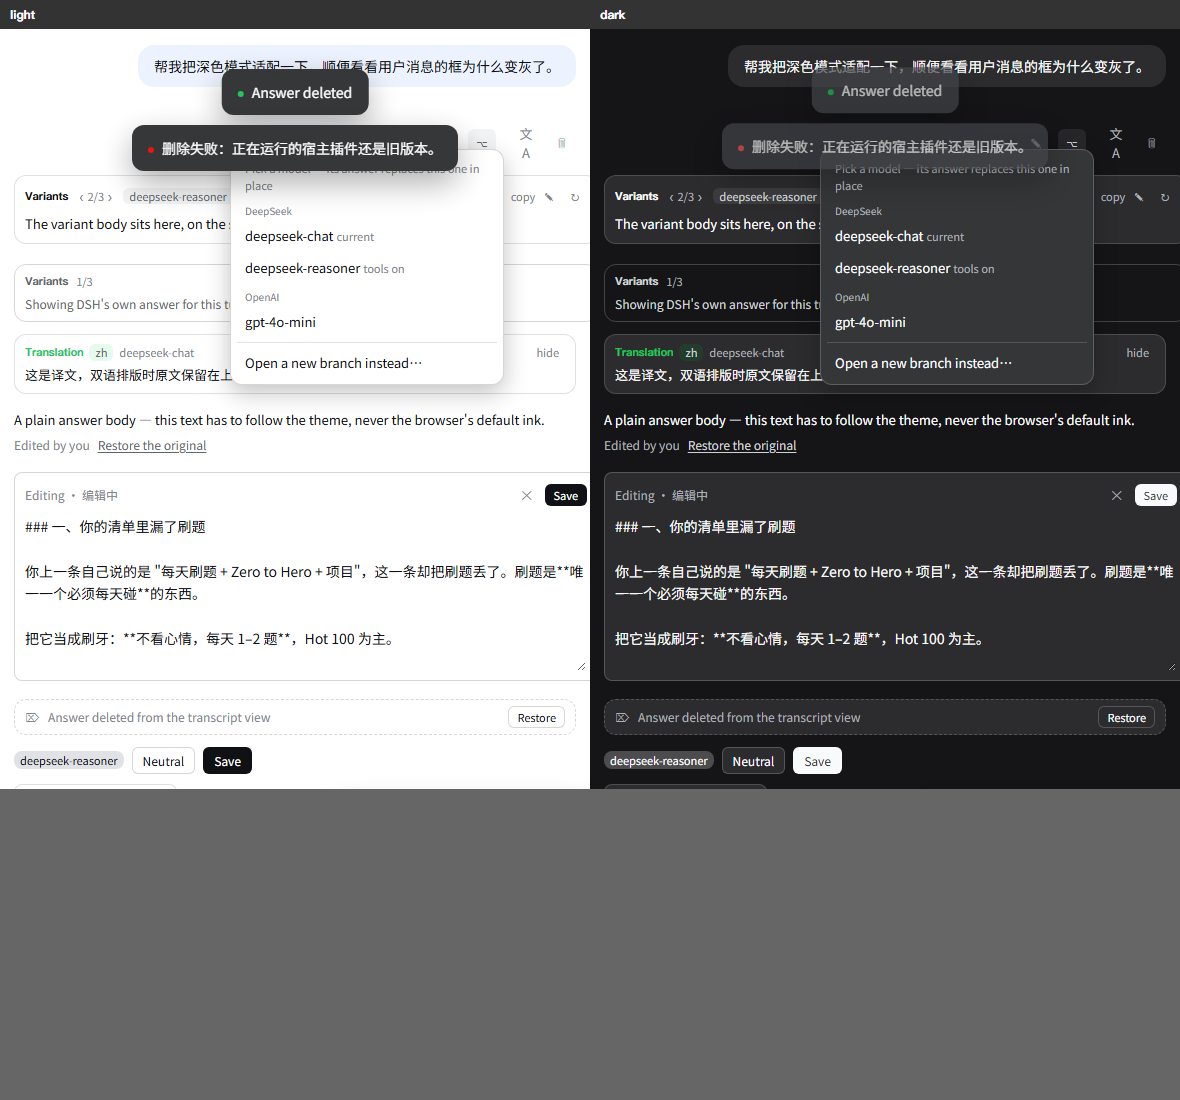
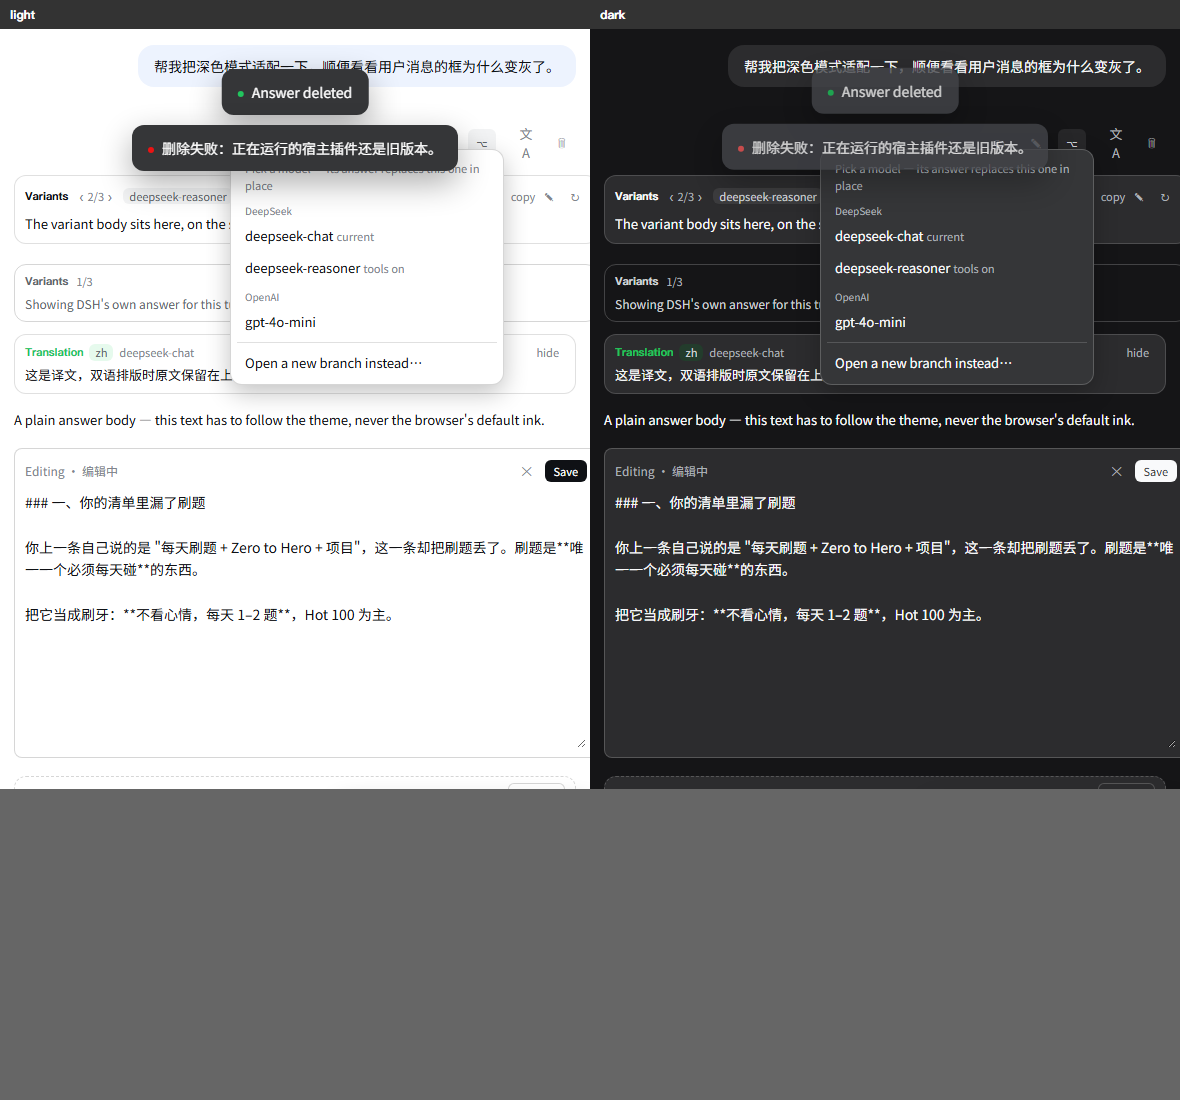
fix: render a saved edit, drop the restore row, stop the editor jitter
- MarkdownText is a memo() object, so the typeof-function guard sent every answer
  down the plain-text fallback: accept a component of either shape (same for the
  shimmer line), which is what 'saved but not rendered' was
- no line is drawn under an overwritten answer any more; answer-restore stays as
  the API-level way back
- the edit field keeps a fixed height and scrolls internally instead of collapsing
  to height:auto on every keystroke and dragging the page back to the top

diff --git a/lib/client.js b/lib/client.js
@@ -1390,7 +1390,13 @@ function markdownRenderer() {
   markdownBridge = null;
   try {
     const primitives = typeof require === 'function' ? require('@deepseek-ai/dsh-client-ui-primitives') : null;
-    if (primitives && typeof primitives.MarkdownText === 'function') markdownBridge = primitives.MarkdownText;
+    // `MarkdownText` (like most of the shell's components) is a `memo()` object,
+    // not a bare function — a `typeof === 'function'` test would silently send
+    // every answer down the plain-text fallback.
+    const candidate = primitives ? primitives.MarkdownText : null;
+    if (typeof candidate === 'function' || (candidate !== null && typeof candidate === 'object')) {
+      markdownBridge = candidate;
+    }
   } catch (e) {
     markdownBridge = null;
   }
@@ -1436,10 +1442,13 @@ function AnswerBody(props) {
  * being generated looks like the app is generating, not like a plugin widget.
  * Falls back to a plain muted line when the primitives package is missing.
  */
+function isComponent(value) {
+  return typeof value === 'function' || (value !== null && typeof value === 'object');
+}
+
 function WaitLine(props) {
-  const Shimmer = clientPrimitives() && typeof clientPrimitives().TextShimmer === 'function'
-    ? clientPrimitives().TextShimmer
-    : null;
+  const api = clientPrimitives();
+  const Shimmer = api !== null && isComponent(api.TextShimmer) ? api.TextShimmer : null;
   if (Shimmer !== null) return h(Shimmer, { active: true }, props.label);
   return h('span', { className: 'mtt-wait-text' }, props.label);
 }
@@ -1504,16 +1513,6 @@ function AnswerEditBox(props) {
   const [busy, setBusy] = React.useState(false);
   const [error, setError] = React.useState(null);
   const [toastNode, showToast] = useToast();
-  const area = React.useRef(null);
-
-  // Long answers must not scroll inside a four-line box: the field grows with
-  // its content, and keeps the manual resize handle for the reader who wants it.
-  React.useEffect(function () {
-    const node = area.current;
-    if (!node) return;
-    node.style.height = 'auto';
-    node.style.height = String(node.scrollHeight) + 'px';
-  }, [text]);
 
   function close() {
     store.setEdit(props.sessionId, props.turn, null);
@@ -1549,7 +1548,6 @@ function AnswerEditBox(props) {
           onClick: save,
         }, t('save')))),
     h('textarea', {
-      ref: area,
       className: 'mtt-answer-edit-input',
       placeholder: t('answerEditHint'),
       value: text,
@@ -1668,37 +1666,9 @@ function AnswerCard(props) {
       : live !== null && streamingText.length === 0
         ? h('div', { className: 'mtt-answer-wait' }, h(WaitLine, { label: t('generating') }))
         : h('div', { className: 'mtt-answer-body' },
-          h(AnswerBody, { text: shownText, streaming: live !== null }),
-          override !== null && active === null && live === null
-            ? h(OverrideNote, { sessionId: sessionId, turn: turn })
-            : null));
+          h(AnswerBody, { text: shownText, streaming: live !== null })));
 }
 
-/**
- * "This answer is your text now, not the model's." One muted line with the way
- * back, so overwriting the logged answer stays reversible without putting a
- * second entry in the ring — the whole point of overwriting instead of adding.
- */
-function OverrideNote(props) {
-  const [busy, setBusy] = React.useState(false);
-  const [toastNode, showToast] = useToast();
-  async function restore() {
-    setBusy(true);
-    try {
-      await answerMutate({ action: 'answer-restore', sessionId: props.sessionId, turn: props.turn });
-      showToast(t('overrideRestored'));
-    } catch (e) {
-      showToast(failureText(e), 'error');
-    }
-    setBusy(false);
-  }
-  return h('div', { className: 'mtt-answer-note' },
-    h('span', {}, t('answerOverridden')),
-    h('button', {
-      type: 'button', className: 'mtt-link', disabled: busy, onClick: restore,
-    }, t('restoreOriginal')),
-    toastNode);
-}
 /* --------------------------------------------------------------- components -- */
 
 /**
@@ -2478,12 +2448,8 @@ const CSS = [
   '.mtt-answer-edit-head{display:flex;align-items:center;justify-content:space-between;gap:8px;margin-bottom:6px}',
   '.mtt-answer-edit-label{font-size:12px;color:var(--mtt-fg-3)}',
   '.mtt-answer-edit-tools{display:flex;align-items:center;gap:4px}',
-  '.mtt-answer-edit-input{display:block;width:100%;min-height:96px;resize:vertical;border:0;background:transparent;color:var(--mtt-fg);font-family:inherit;font-size:var(--dsh-content-font-size,14px);line-height:1.6;padding:0;outline:none;overflow:hidden}',
+  '.mtt-answer-edit-input{display:block;width:100%;height:clamp(140px,34vh,360px);resize:vertical;border:0;background:transparent;color:var(--mtt-fg);font-family:inherit;font-size:var(--dsh-content-font-size,14px);line-height:1.6;padding:0;outline:none;overflow:auto;overscroll-behavior:contain}',
   '.mtt-answer-edit-input::placeholder{color:var(--mtt-fg-3)}',
-  '.mtt-answer-note{display:flex;align-items:center;gap:8px;margin-top:6px;font-size:12px;color:var(--mtt-fg-3)}',
-  '.mtt-link{border:0;background:none;padding:0;font:inherit;color:var(--mtt-fg-2);cursor:pointer;text-decoration:underline;text-underline-offset:2px}',
-  '.mtt-link:hover{color:var(--mtt-fg)}',
-  '.mtt-link:disabled{opacity:.5;cursor:default}',
   '.mtt-answer-wait{font-size:var(--dsh-content-font-size-secondary,13px);color:var(--mtt-fg-3);padding:2px 0}',
   '.mtt-wait-text{opacity:.75}',
   '.mtt-alt{margin:8px 0 2px;border:1px solid var(--mtt-line);background:var(--mtt-surface-2);border-radius:var(--mtt-radius-lg);padding:8px 10px;display:flex;flex-direction:column;gap:6px;width:100%;min-width:0;color:var(--mtt-fg)}',
@@ -2612,9 +2578,6 @@ const I18N = {
     editAnswer: 'Edit this answer',
     editing: 'Editing',
     exitEdit: 'Close the editor',
-    answerOverridden: 'Edited by you',
-    restoreOriginal: 'Restore the original',
-    overrideRestored: 'Original answer restored',
     answerEditHint: 'Your edit is kept as another variant of this answer; the model’s original stays available under ‹ ›.',
     save: 'Save',
     prevAnswer: 'Previous answer',
@@ -2691,9 +2654,6 @@ const I18N = {
     editAnswer: '编辑这条回答',
     editing: '编辑中',
     exitEdit: '退出编辑',
-    answerOverridden: '已由你修改',
-    restoreOriginal: '还原原文',
-    overrideRestored: '已还原原始回答',
     answerEditHint: '你的修改会作为这条回答的另一个备选保存，模型原文仍可在 ‹ › 里找回。',
     save: '保存',
     prevAnswer: '上一个回答',
@@ -2853,7 +2813,6 @@ return {
     });
   },
 };
-
     })();
   }
 });

diff --git a/plugin.client.js b/plugin.client.js
@@ -1370,7 +1370,13 @@ function markdownRenderer() {
   markdownBridge = null;
   try {
     const primitives = typeof require === 'function' ? require('@deepseek-ai/dsh-client-ui-primitives') : null;
-    if (primitives && typeof primitives.MarkdownText === 'function') markdownBridge = primitives.MarkdownText;
+    // `MarkdownText` (like most of the shell's components) is a `memo()` object,
+    // not a bare function — a `typeof === 'function'` test would silently send
+    // every answer down the plain-text fallback.
+    const candidate = primitives ? primitives.MarkdownText : null;
+    if (typeof candidate === 'function' || (candidate !== null && typeof candidate === 'object')) {
+      markdownBridge = candidate;
+    }
   } catch (e) {
     markdownBridge = null;
   }
@@ -1416,10 +1422,13 @@ function AnswerBody(props) {
  * being generated looks like the app is generating, not like a plugin widget.
  * Falls back to a plain muted line when the primitives package is missing.
  */
+function isComponent(value) {
+  return typeof value === 'function' || (value !== null && typeof value === 'object');
+}
+
 function WaitLine(props) {
-  const Shimmer = clientPrimitives() && typeof clientPrimitives().TextShimmer === 'function'
-    ? clientPrimitives().TextShimmer
-    : null;
+  const api = clientPrimitives();
+  const Shimmer = api !== null && isComponent(api.TextShimmer) ? api.TextShimmer : null;
   if (Shimmer !== null) return h(Shimmer, { active: true }, props.label);
   return h('span', { className: 'mtt-wait-text' }, props.label);
 }
@@ -1484,16 +1493,6 @@ function AnswerEditBox(props) {
   const [busy, setBusy] = React.useState(false);
   const [error, setError] = React.useState(null);
   const [toastNode, showToast] = useToast();
-  const area = React.useRef(null);
-
-  // Long answers must not scroll inside a four-line box: the field grows with
-  // its content, and keeps the manual resize handle for the reader who wants it.
-  React.useEffect(function () {
-    const node = area.current;
-    if (!node) return;
-    node.style.height = 'auto';
-    node.style.height = String(node.scrollHeight) + 'px';
-  }, [text]);
 
   function close() {
     store.setEdit(props.sessionId, props.turn, null);
@@ -1529,7 +1528,6 @@ function AnswerEditBox(props) {
           onClick: save,
         }, t('save')))),
     h('textarea', {
-      ref: area,
       className: 'mtt-answer-edit-input',
       placeholder: t('answerEditHint'),
       value: text,
@@ -1648,37 +1646,9 @@ function AnswerCard(props) {
       : live !== null && streamingText.length === 0
         ? h('div', { className: 'mtt-answer-wait' }, h(WaitLine, { label: t('generating') }))
         : h('div', { className: 'mtt-answer-body' },
-          h(AnswerBody, { text: shownText, streaming: live !== null }),
-          override !== null && active === null && live === null
-            ? h(OverrideNote, { sessionId: sessionId, turn: turn })
-            : null));
+          h(AnswerBody, { text: shownText, streaming: live !== null })));
 }
 
-/**
- * "This answer is your text now, not the model's." One muted line with the way
- * back, so overwriting the logged answer stays reversible without putting a
- * second entry in the ring — the whole point of overwriting instead of adding.
- */
-function OverrideNote(props) {
-  const [busy, setBusy] = React.useState(false);
-  const [toastNode, showToast] = useToast();
-  async function restore() {
-    setBusy(true);
-    try {
-      await answerMutate({ action: 'answer-restore', sessionId: props.sessionId, turn: props.turn });
-      showToast(t('overrideRestored'));
-    } catch (e) {
-      showToast(failureText(e), 'error');
-    }
-    setBusy(false);
-  }
-  return h('div', { className: 'mtt-answer-note' },
-    h('span', {}, t('answerOverridden')),
-    h('button', {
-      type: 'button', className: 'mtt-link', disabled: busy, onClick: restore,
-    }, t('restoreOriginal')),
-    toastNode);
-}
 /* --------------------------------------------------------------- components -- */
 
 /**
@@ -2458,12 +2428,8 @@ const CSS = [
   '.mtt-answer-edit-head{display:flex;align-items:center;justify-content:space-between;gap:8px;margin-bottom:6px}',
   '.mtt-answer-edit-label{font-size:12px;color:var(--mtt-fg-3)}',
   '.mtt-answer-edit-tools{display:flex;align-items:center;gap:4px}',
-  '.mtt-answer-edit-input{display:block;width:100%;min-height:96px;resize:vertical;border:0;background:transparent;color:var(--mtt-fg);font-family:inherit;font-size:var(--dsh-content-font-size,14px);line-height:1.6;padding:0;outline:none;overflow:hidden}',
+  '.mtt-answer-edit-input{display:block;width:100%;height:clamp(140px,34vh,360px);resize:vertical;border:0;background:transparent;color:var(--mtt-fg);font-family:inherit;font-size:var(--dsh-content-font-size,14px);line-height:1.6;padding:0;outline:none;overflow:auto;overscroll-behavior:contain}',
   '.mtt-answer-edit-input::placeholder{color:var(--mtt-fg-3)}',
-  '.mtt-answer-note{display:flex;align-items:center;gap:8px;margin-top:6px;font-size:12px;color:var(--mtt-fg-3)}',
-  '.mtt-link{border:0;background:none;padding:0;font:inherit;color:var(--mtt-fg-2);cursor:pointer;text-decoration:underline;text-underline-offset:2px}',
-  '.mtt-link:hover{color:var(--mtt-fg)}',
-  '.mtt-link:disabled{opacity:.5;cursor:default}',
   '.mtt-answer-wait{font-size:var(--dsh-content-font-size-secondary,13px);color:var(--mtt-fg-3);padding:2px 0}',
   '.mtt-wait-text{opacity:.75}',
   '.mtt-alt{margin:8px 0 2px;border:1px solid var(--mtt-line);background:var(--mtt-surface-2);border-radius:var(--mtt-radius-lg);padding:8px 10px;display:flex;flex-direction:column;gap:6px;width:100%;min-width:0;color:var(--mtt-fg)}',
@@ -2592,9 +2558,6 @@ const I18N = {
     editAnswer: 'Edit this answer',
     editing: 'Editing',
     exitEdit: 'Close the editor',
-    answerOverridden: 'Edited by you',
-    restoreOriginal: 'Restore the original',
-    overrideRestored: 'Original answer restored',
     answerEditHint: 'Your edit is kept as another variant of this answer; the model’s original stays available under ‹ ›.',
     save: 'Save',
     prevAnswer: 'Previous answer',
@@ -2671,9 +2634,6 @@ const I18N = {
     editAnswer: '编辑这条回答',
     editing: '编辑中',
     exitEdit: '退出编辑',
-    answerOverridden: '已由你修改',
-    restoreOriginal: '还原原文',
-    overrideRestored: '已还原原始回答',
     answerEditHint: '你的修改会作为这条回答的另一个备选保存，模型原文仍可在 ‹ › 里找回。',
     save: '保存',
     prevAnswer: '上一个回答',

diff --git a/README.md b/README.md
@@ -180,7 +180,7 @@ MIT
 | **编辑** | 用户消息 | 就地改写这一轮：对话回退到该轮之前，用编辑后的文本开启一个新的子会话并重新回答，原分支保留为版本卡片。 |
 | **重新生成** | 助手消息 | **就地重答，不新开对话。** 同一个问题的新回答存成这一轮的一个「备选」，直接替换显示。`‹ 1/2 ›` 切换按钮就在这一轮的动作行里、删除按钮右边，可以就地来回翻。 |
 | **切换模型** | 助手消息 | 同一机制换 provider/模型：每个模型的回答都是**同一轮**的备选，`‹ 2/3 ›` 就地来回切换，不离开当前对话。模型选择器直接复用输入框右下角那个原生下拉（外观与键盘操作完全一致），它的最后一行则走真正的分支，用于需要调用工具的完整重跑。 |
-| **编辑回答** | 助手消息 / 回答卡片 | 点铅笔就在**回答原来的位置**变成编辑器：带边框的框里放这条回答的 markdown 源码（工具调用、文件改动不属于它的文本，所以留在框外照常显示），左上角写「编辑中」，右上角是 ✕（退出）和保存。Esc 退出，⌘/Ctrl+Enter 保存。**保存是直接覆盖你正在看的那份**——环里不会多出一个回答——而且用同一个 markdown 正文渲染器显示，所以样式和模型生成的一模一样；只有模型原本那条（日志改不了）会变成一条覆盖文本，下方留一行很淡的「已由你修改 · 还原原文」可以要回原文。 |
+| **编辑回答** | 助手消息 / 回答卡片 | 点铅笔就在**回答原来的位置**变成编辑器：带边框的框里放这条回答的 markdown 源码（工具调用、文件改动不属于它的文本，所以留在框外照常显示），左上角写「编辑中」，右上角是 ✕（退出）和保存。Esc 退出，⌘/Ctrl+Enter 保存。**保存是直接覆盖你正在看的那份**——环里不会多出一个回答——而且用同一个 markdown 正文渲染器显示，所以样式和模型生成的一模一样；只有模型原本那条（日志改不了）会改成一条覆盖文本存在这一轮的记录里，下方不再多任何一行。 |
 | **翻译** | 助手回答 | 点翻译直接弹出语言下拉（就是切换模型那个原生菜单），选一种语言就翻，不需要事先在设置里配任何东西。结果是**双语排版**：原文保留，译文以可折叠面板放在下面。按 会话+轮次+序号 缓存，刷新页面不会重复计费。 |
 | **删除** | 版本卡片 | 软删除：从版本徽标和版本树里隐藏，但会话日志不动，可随时恢复。根对话永远不可删除。 |
 | **删除消息 / 回答** | 用户气泡 / 助手回答 | 把某一轮（消息、回答、工具卡片）或单独一条回答从对话里删掉，比如清掉某一轮卡住后连发的一串「继续」。原位留下「已删除 · 恢复」一行，随时能一键找回。 |

diff --git a/CHANGELOG.md b/CHANGELOG.md
@@ -1,5 +1,19 @@
 # Changelog
 
+## 0.4.4
+
+- **A saved edit is now rendered, not shown as source.** The renderer lookup tested
+  `typeof primitives.MarkdownText === 'function'`, but `MarkdownText` is a `memo()` object, so the
+  check failed and every answer fell back to pre-wrapped plain text — editing looked like it had done
+  nothing. The guard now accepts a component of either shape (and the same fix applies to the
+  `TextShimmer` "generating" line).
+- **No line under an edited answer.** The `Edited by you · Restore the original` row is gone, as
+  requested; `answer-restore` stays available as the API-level way to drop an override.
+- **The edit field no longer fights the reader.** It used to collapse to `height:auto` and re-grow on
+  every keystroke, which scrolled the page to the caret each time — typing at the end of a long answer
+  jumped back to the top. The field now has a fixed height (`clamp(140px, 34vh, 360px)`), scrolls
+  inside itself, keeps its position, and is still manually resizable.
+
 ## 0.4.3
 
 - **Saving an edit overwrites the answer you were looking at** instead of adding a second one, so the

diff --git a/docs/ARCHITECTURE.md b/docs/ARCHITECTURE.md
@@ -201,9 +201,9 @@ state instead:
    it through the very same `AnswerBody` → `MarkdownText` path as a generated answer, so nothing
    about its styling changes. When the visible answer *is* the logged one there is no variant to
    rewrite, so the turn record takes `override: { text, at }` instead: `active` stays `'native'`,
-   `items` stays empty, and the ring never appears. The card then renders `override.text` and one
-   muted line (`Edited by you · Restore the original`) whose button posts `answer-restore`, dropping
-   the override so the model's own text is back.
+   `items` stays empty, and the ring never appears. The card then renders `override.text` through
+   the same body and draws nothing else under it; `answer-restore` still drops the override, kept as
+   the API-level way back instead of a button.
 
 Consequences worth knowing: the log is untouched, so **later turns still see the original answer**
 in their model context; and if a future DSH renames those attributes the rule simply stops
